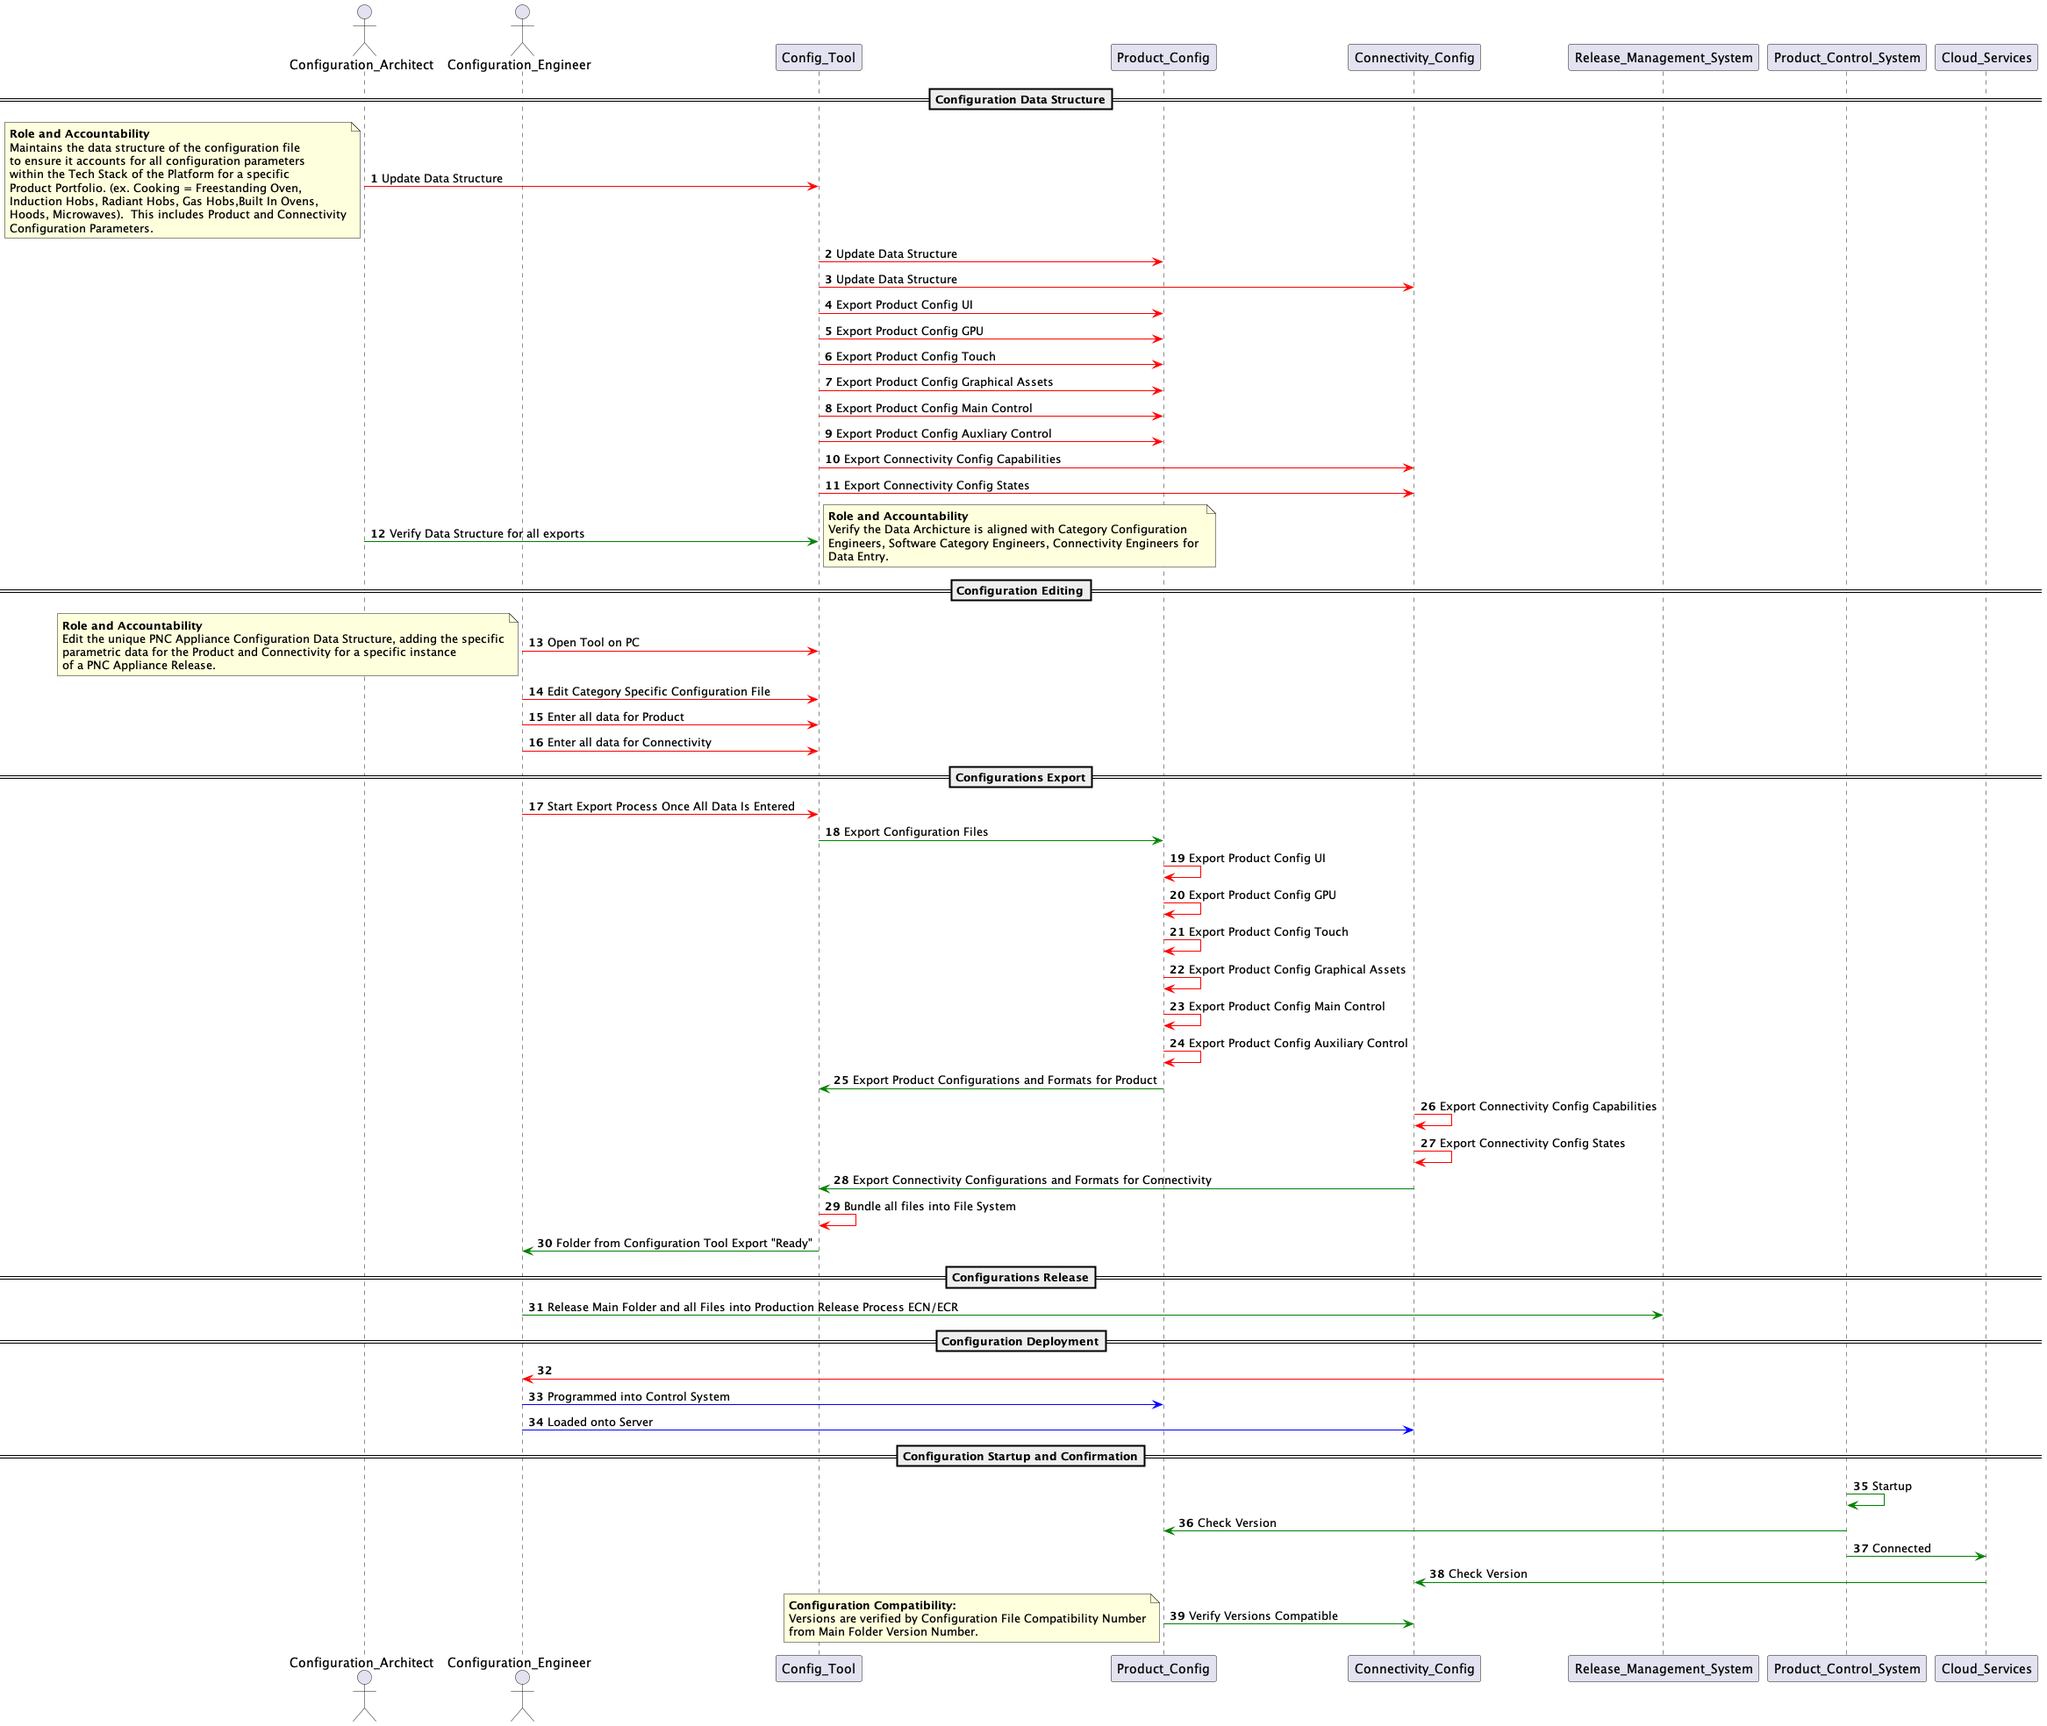
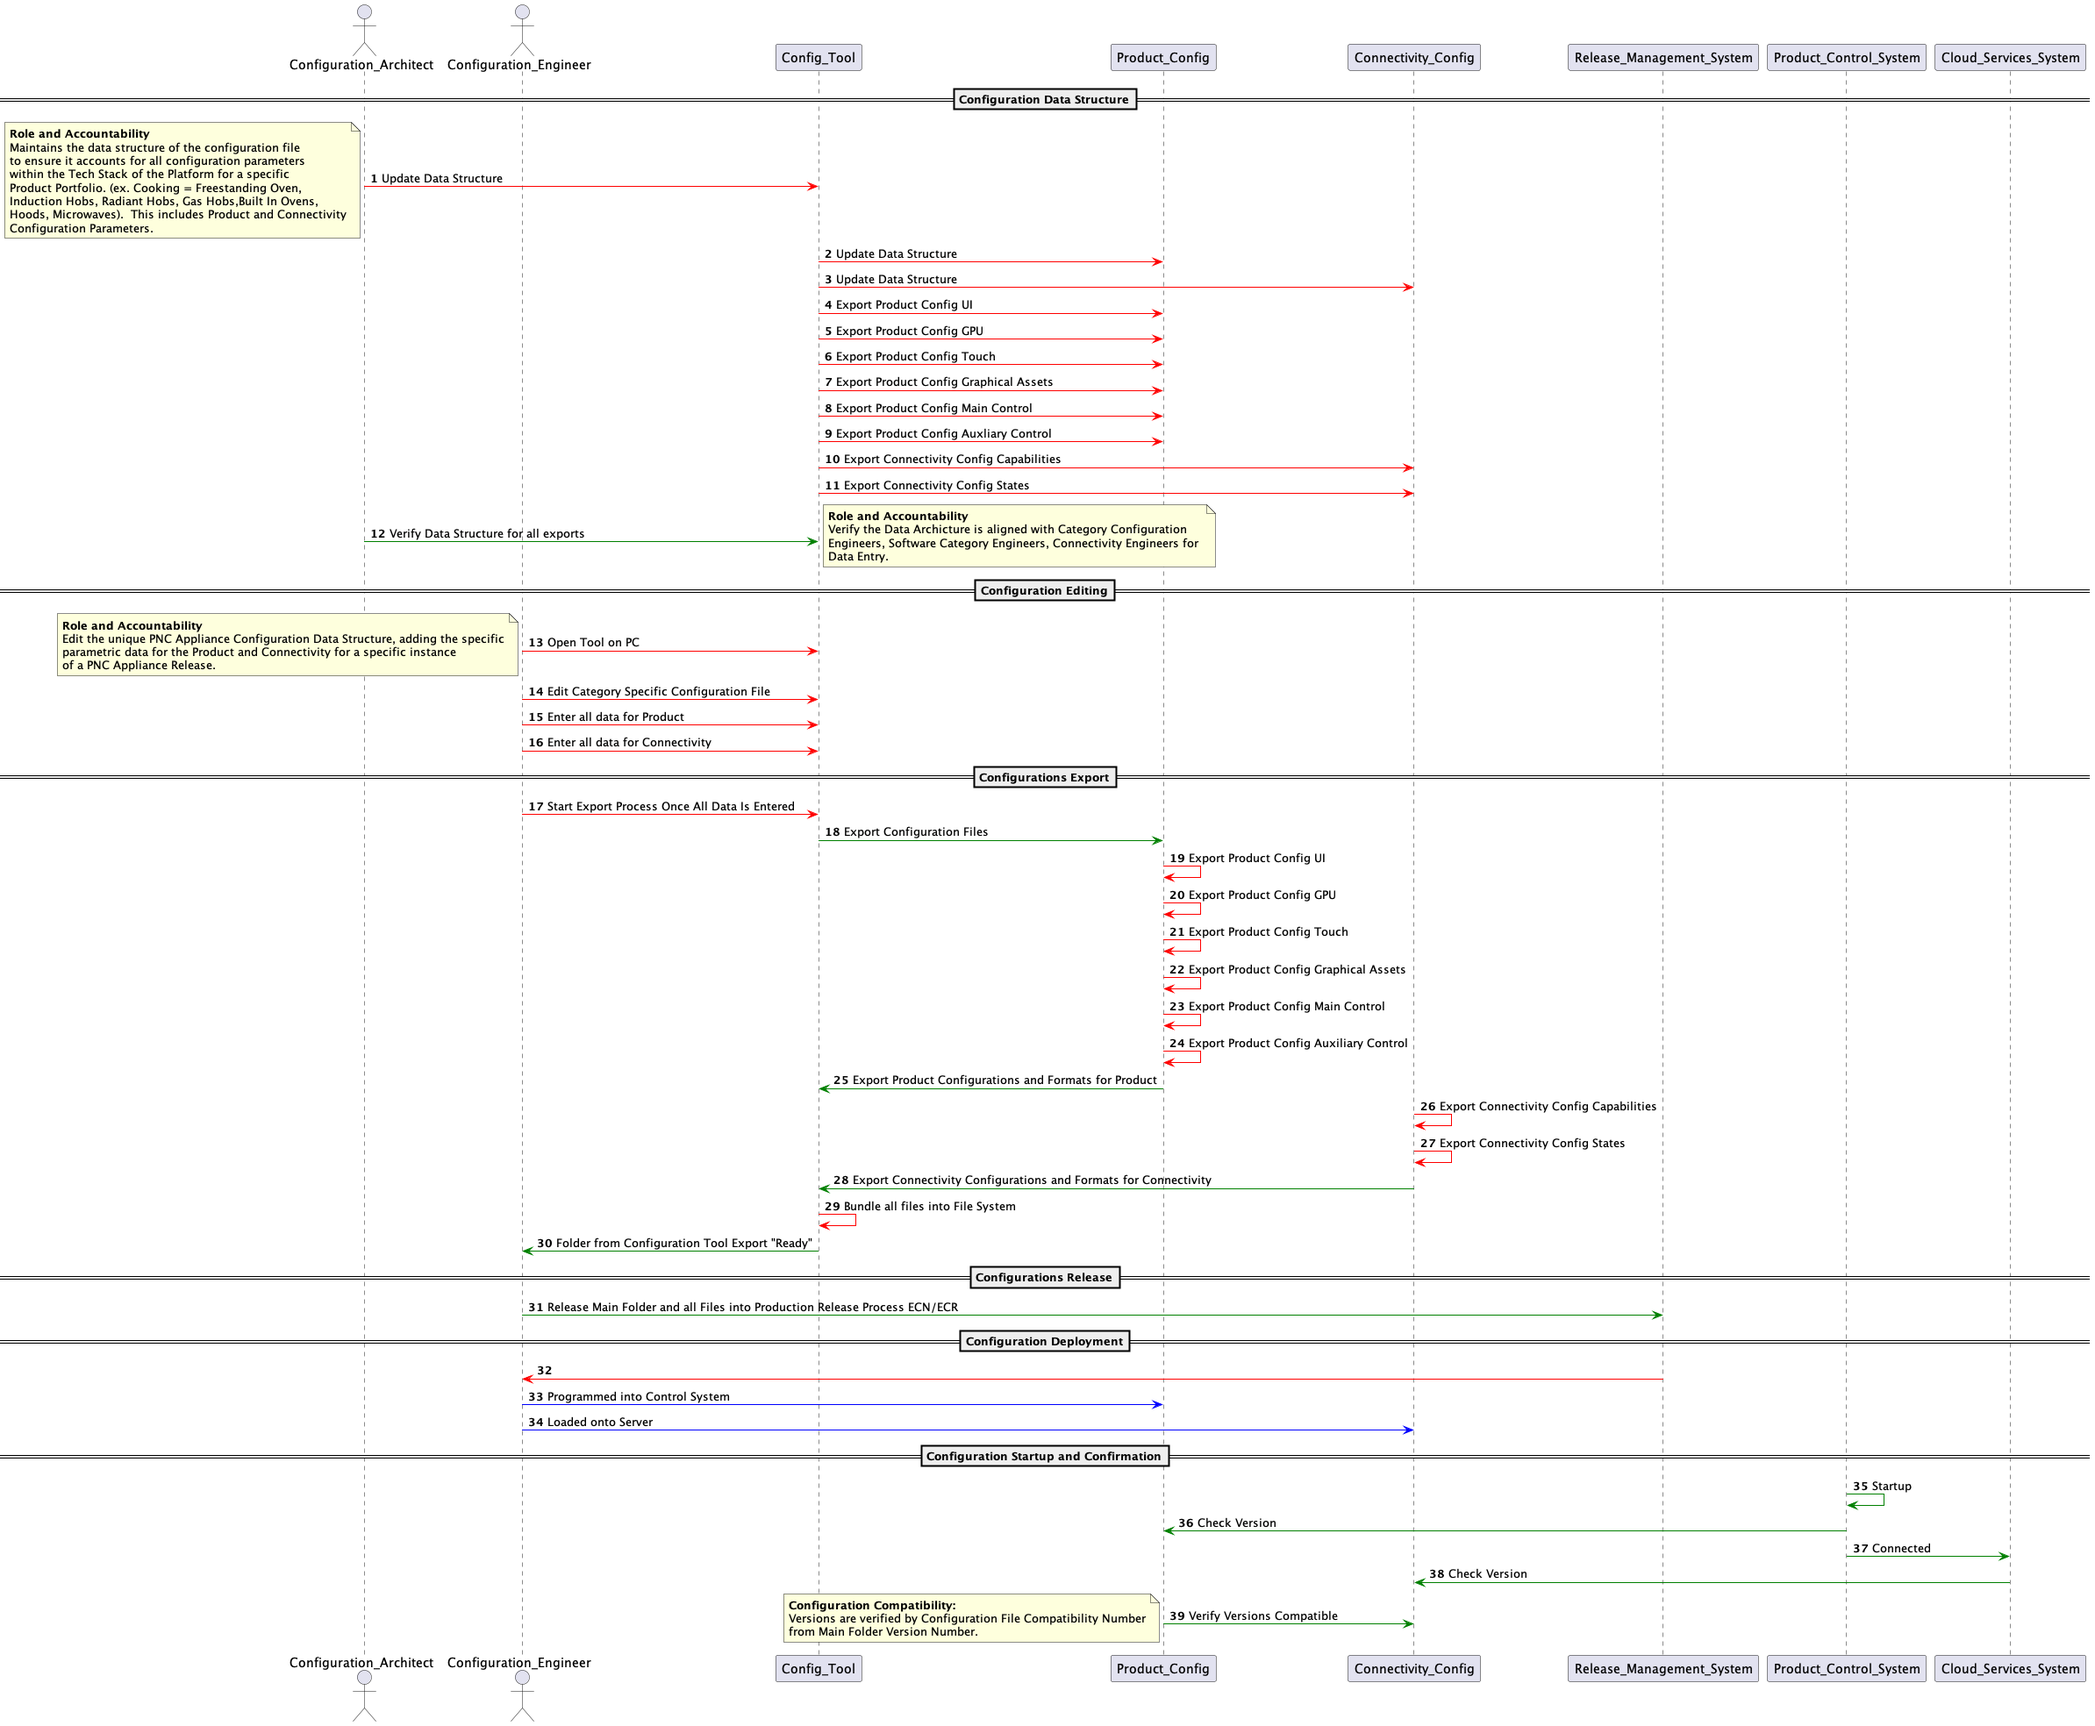
Configuration
Description and Updates to Sequence Diagram

diff --git a/configurations_and_capabilities/Configurations (IoT and Product).md b/configurations_and_capabilities/Configurations (IoT and Product).md
@@ -1,5 +1,6 @@
 Configurations (IoT and Appliance)
 
+This document describes the Configuation Tool needed to align the Product and Connectivity Configurations, and also show the parametric data to be shared between the Cloud Services System and the Product Control System.
 
 # Sequence Diagram
 
